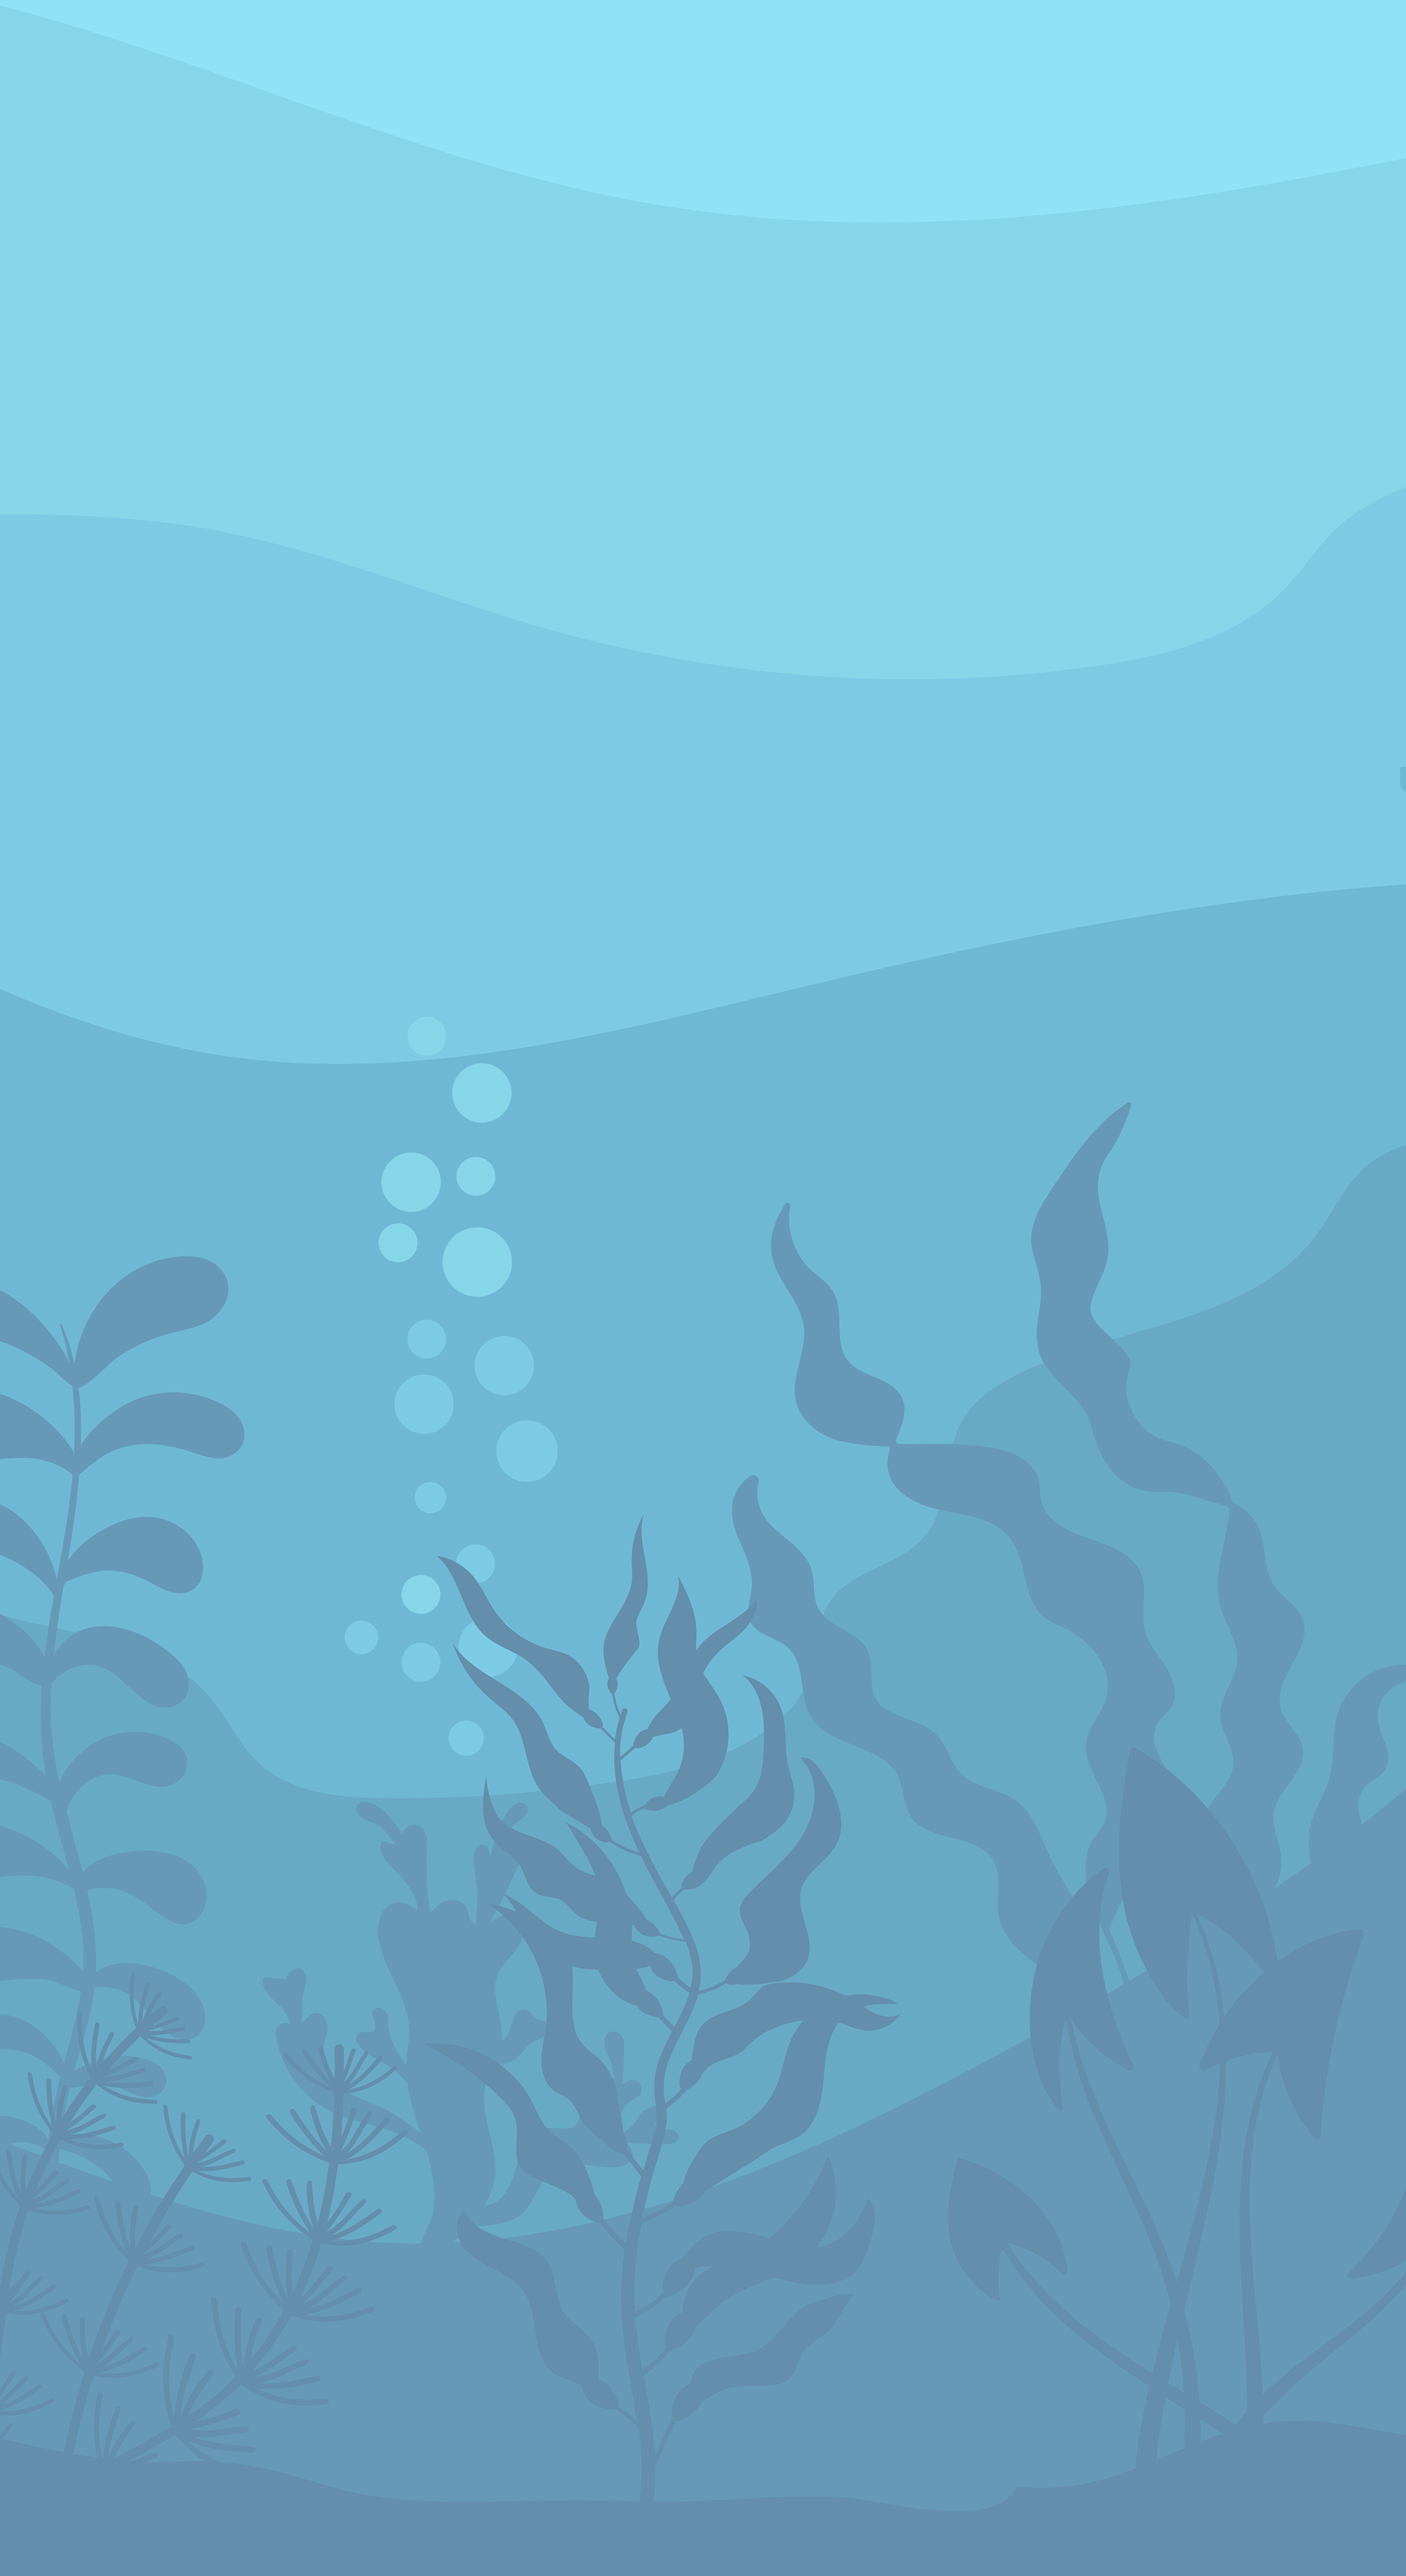
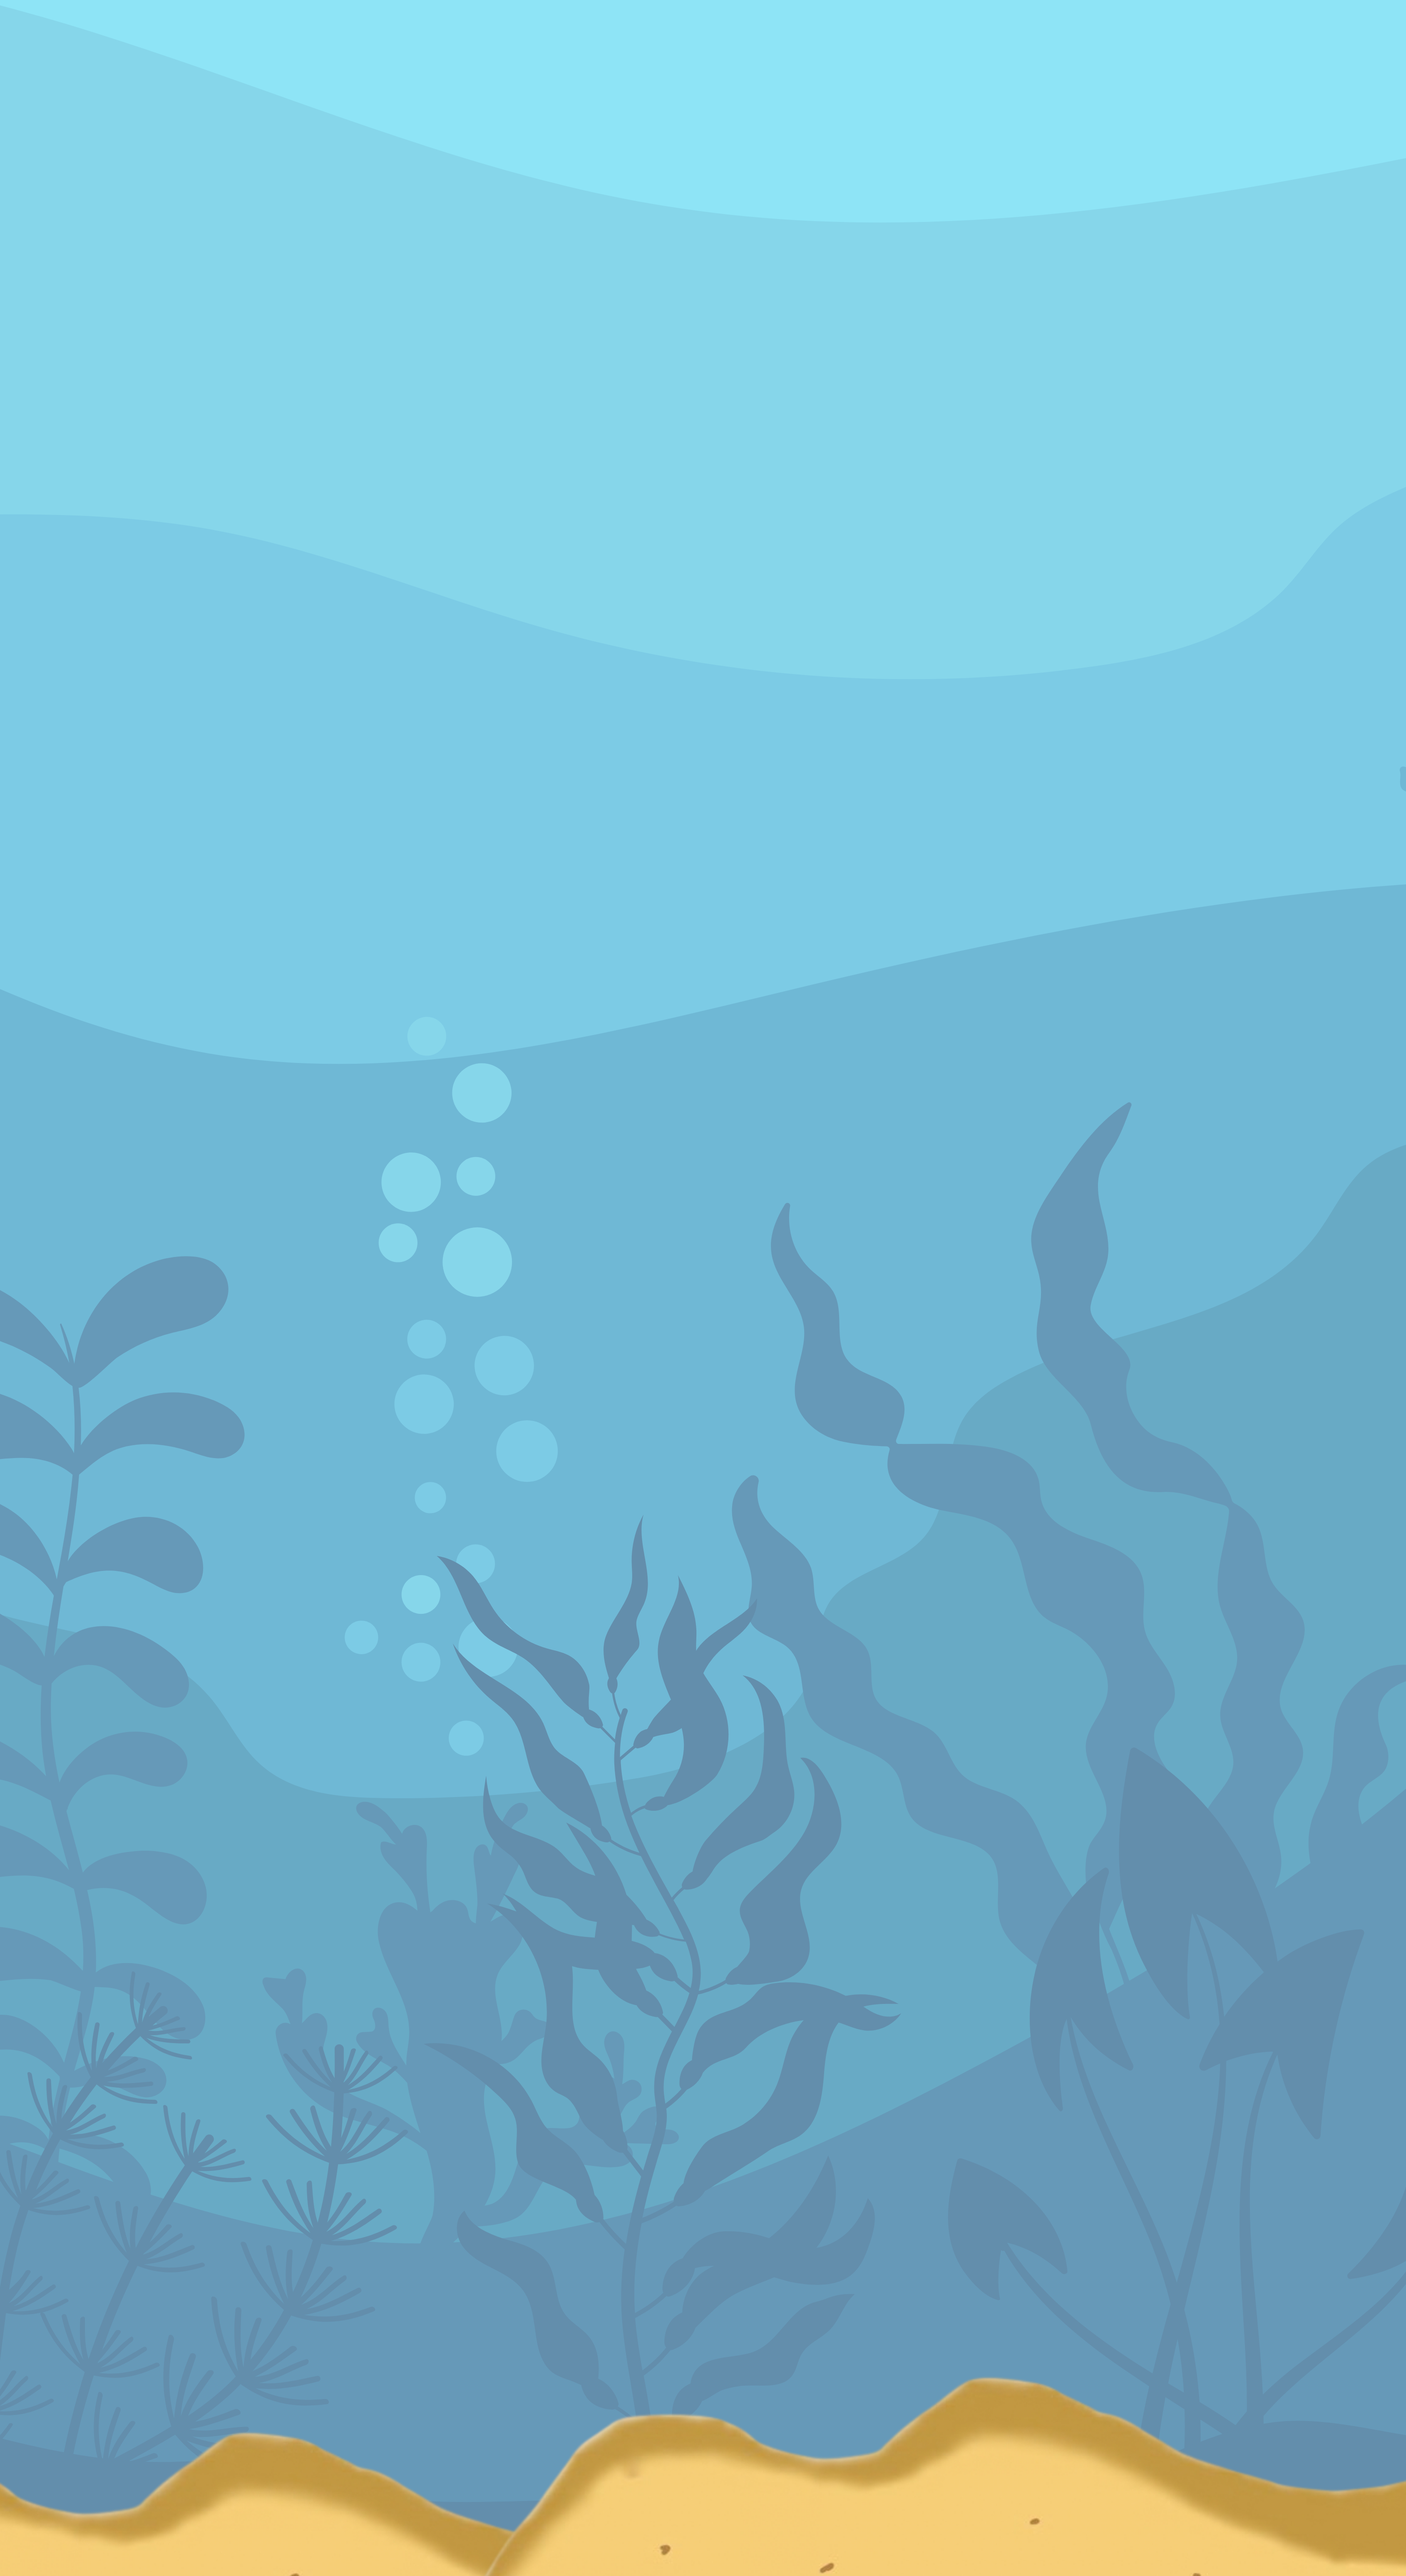
release: final version 1.0.0

Changed region(s): [[0.0, 0.9046, 1.0, 1.0]]

diff --git a/README.md b/README.md
@@ -1,6 +1,6 @@
 # Test Talotsa
 
-เวอร์ชันปัจจุบัน: **v0.9.9** (Ver 0.9.9)
+เวอร์ชันปัจจุบัน: **v1.0.0** (Ver 1.0.0)
 
 เกมยานยิงใต้น้ำ 2D แนวตั้งที่สร้างด้วย Godot ผู้เล่นคือ Johny เต่าทะเลที่ใช้คลื่นชำระล้างช่วยเพื่อนจาก Micro Plastic Energy มีหน้า Home สำหรับเลือกยาน 5 แบบ ด่านเนื้อเรื่อง 1–6 โหมด Endless ระบบคะแนน พลังชีวิต และพื้นหลัง Parallax
 

diff --git a/docs/WEB_EXPORT.md b/docs/WEB_EXPORT.md
@@ -19,7 +19,7 @@
 godot --headless --path . --export-release "Web (itch.io)" "Compress File/index.html"
 ```
 
-จากนั้น ZIP ไฟล์ index.* ทั้งหมดภายใน Compress File เป็น Test-Talotsa-v0.9.9-Web.zip โดยให้ index.html อยู่ที่ระดับบนสุดของ ZIP
+จากนั้น ZIP ไฟล์ index.* ทั้งหมดภายใน Compress File เป็น Test-Talotsa-v1.0.0-Web.zip โดยให้ index.html อยู่ที่ระดับบนสุดของ ZIP
 
 ## ตั้งค่า itch.io
 

diff --git a/CHANGELOG.md b/CHANGELOG.md
@@ -2,7 +2,10 @@
 
 ## [Unreleased]
 
-- Use `Menu.png` for the menu background and the new PNG for the first parallax layer.
+## [1.0.0] - 2026-09-30
+
+- Update the first parallax background and use the new PNG for the second layer.
+- Use `Menu.png` for the menu background.
 - Allow Escape or P to pause and resume during play.
 - Raise Straw Hat Johny's Endless unlock score to 70,000.
 
